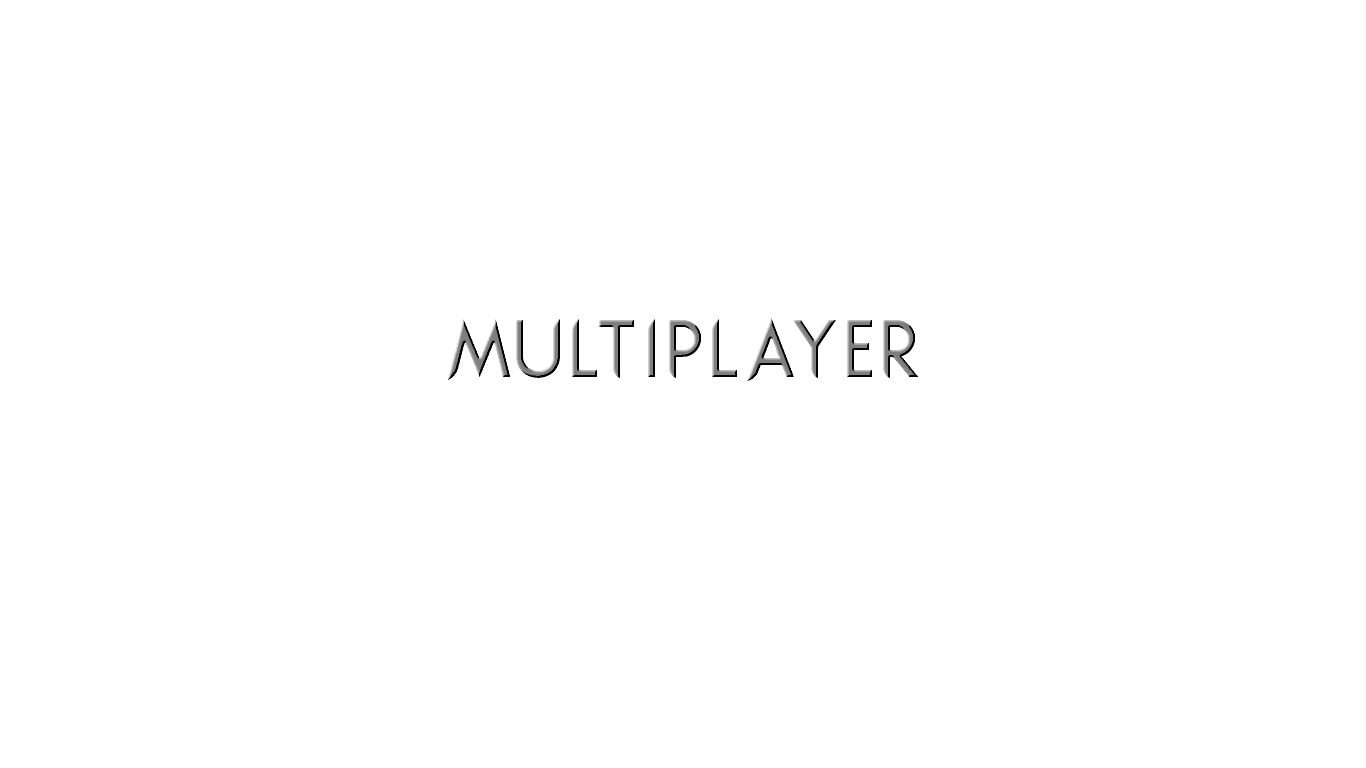
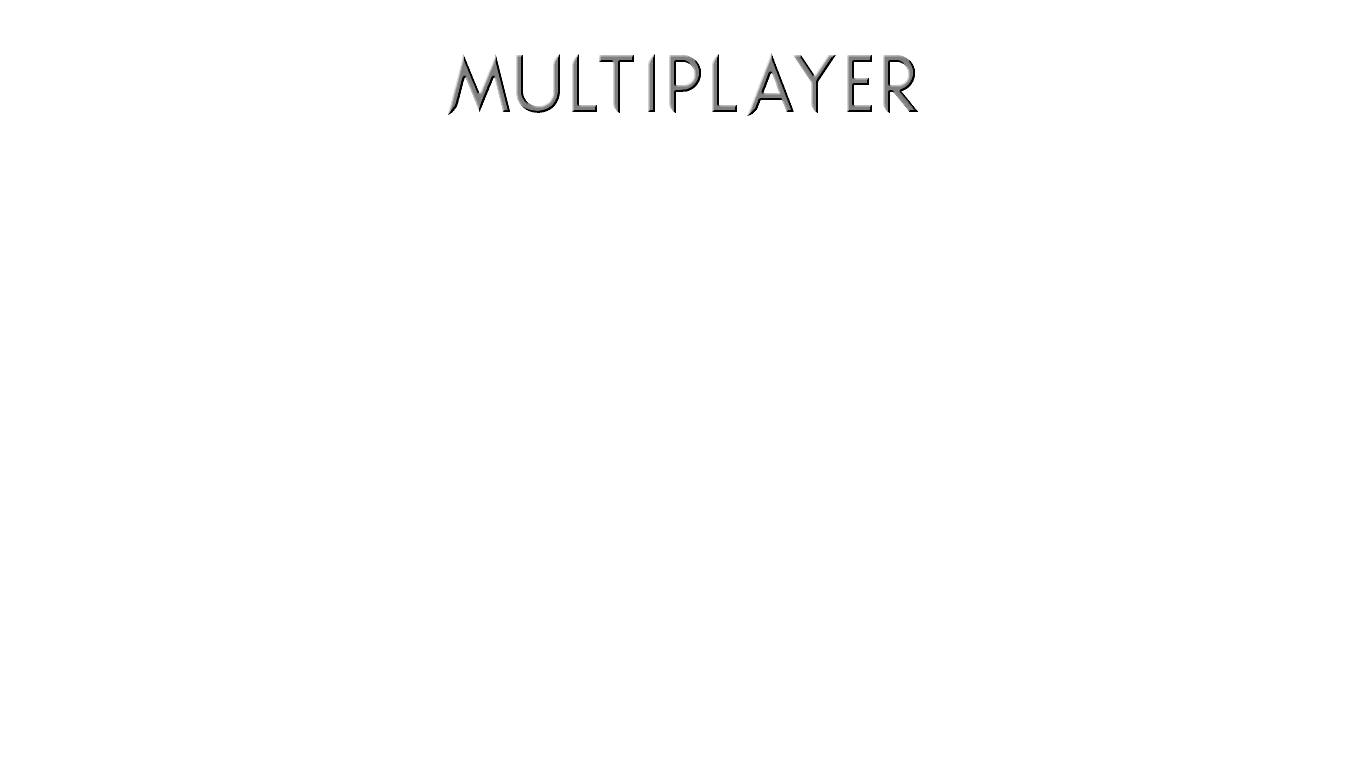
Improve layouting of multiplayer lobby screen
- Fix jitter on screen transition
- Improve layout of UI elements
- Add UI for entering server IP address & port
- Fix rust panic on shutdown

Changed region(s): [[0.3075, 0.4062, 0.6764, 0.5], [0.3075, 0.0625, 0.6764, 0.1562]]

diff --git a/MultiplayerMvpClient/Plugin/Menu/MultiplayerLobby.cs b/MultiplayerMvpClient/Plugin/Menu/MultiplayerLobby.cs
@@ -20,49 +20,102 @@ namespace MultiplayerMvpClient.Plugin.Menu
 
 		private readonly FSprite NativeDot;
 
+		private bool hasDoneInitUpdate;
+
+		public override bool FreezeMenuFunctions => hasDoneInitUpdate && base.FreezeMenuFunctions;
+
 		public MultiplayerLobby(ProcessManager manager, ProcessManager.ProcessID ID) : base(manager, ID)
 		{
-			pages.Add(new Page(this, null, "main", 0));
-			scene = new InteractiveMenuScene(this, pages[0], ModManager.MMF ? manager.rainWorld.options.subBackground : MenuScene.SceneID.Landscape_SU);
-			pages[0].subObjects.Add(scene);
+			Vector2 screenSize = manager.rainWorld.screenSize;
+			Vector2 screenCenter = manager.rainWorld.screenSize / 2;
+
+			Vector2 bottomLeft = Vector2.zero;
+			Vector2 topRight = screenSize;
+
+			Vector2 standardButtonSize = new(110f, 30f);
+
+			Page page = new(this, null, "main", 0);
+			pages.Add(page);
+
+			scene = new InteractiveMenuScene(this, page, ModManager.MMF ? manager.rainWorld.options.subBackground : MenuScene.SceneID.Landscape_SU);
+			page.subObjects.Add(scene);
 
 			FSprite backgroundTint = new("pixel")
 			{
 				color = Color.black,
-				anchorX = 0f,
-				anchorY = 0f,
-				scaleX = 1368f,
-				scaleY = 770f,
-				x = -1f,
-				y = -1f,
+				anchorX = 0,
+				anchorY = 0,
+				scaleX = screenSize.x + 2,
+				scaleY = screenSize.y + 2,
+				x = -1,
+				y = -1,
 				alpha = 0.85f
 			};
-			pages[0].Container.AddChild(backgroundTint);
+			page.Container.AddChild(backgroundTint);
 
-			scene.AddIllustration(new MenuIllustration(this, scene, "", "MultiplayerTitle", new Vector2(-2.99f, 265.01f), crispPixels: true, anchorCenter: false));
-			scene.flatIllustrations.Last().sprite.shader = manager.rainWorld.Shaders["MenuText"];
-			scene.flatIllustrations.Last().pos.x += HorizontalMoveToGetCentered(manager);
+			MenuIllustration title = new(this, scene, "", "MultiplayerTitle", Vector2.zero, crispPixels: true, anchorCenter: false);
+			title.sprite.shader = manager.rainWorld.Shaders["MenuText"];
+			scene.AddIllustration(title);
 
-			SimpleButton backButton = new(this, pages[0], Translate(BACK_BUTTON_SIGNAL), BACK_BUTTON_SIGNAL, new Vector2(200f, 50f), new Vector2(110f, 30f));
-			pages[0].subObjects.Add(backButton);
+			SimpleButton backButton = new(this, page, Translate(BACK_BUTTON_SIGNAL), BACK_BUTTON_SIGNAL, new Vector2(200f, 50f), standardButtonSize);
+			page.subObjects.Add(backButton);
 			backObject = backButton;
 
-			Vector2 screenCenter = manager.rainWorld.screenSize / 2;
-
-			MenuTabWrapper tabWrapper = new(this, pages[0]);
-			pages[0].subObjects.Add(tabWrapper);
-
-			OpTextBox textbox = new(new Configurable<string>(""), new(500, 500), 200)
+			// IP address and port number
 			{
-				allowSpace = true
-			};
-			_ = new UIelementWrapper(tabWrapper, textbox);
+				Vector2 serverSocketAddressAnchor = new(screenCenter.x, screenSize.y * 0.6f);
+				MenuTabWrapper tabWrapper = new(this, page);
+				page.subObjects.Add(tabWrapper);
 
-			SimpleButton connectButton = new(this, pages[0], Translate(CONNECT_BUTTON_SIGNAL), CONNECT_BUTTON_SIGNAL, new Vector2(500, 380), new Vector2(110, 30));
-			pages[0].subObjects.Add(connectButton);
+				OpLabel serverAddressLabel = new(
+					serverSocketAddressAnchor,
+					new(20, 24),
+					"Server Address:",
+					FLabelAlignment.Left);
 
-			SimpleButton disconnectButton = new(this, pages[0], Translate(DISCONNECT_BUTTON_SIGNAL), DISCONNECT_BUTTON_SIGNAL, new Vector2(500, 280), new Vector2(110, 30));
-			pages[0].subObjects.Add(disconnectButton);
+				float serverAddressLabelWidth = serverAddressLabel.label.textRect.width;
+
+				const float serverAddressWidth = 274;
+				OpTextBox serverAddress = new(
+					new Configurable<string>(""),
+					serverSocketAddressAnchor,
+					 serverAddressWidth);
+
+				OpLabel serverPortLabel = new(
+					serverSocketAddressAnchor,
+					 new(20, 24),
+					  "Port:",
+					  FLabelAlignment.Left);
+
+				float serverPortLabelWidth = serverPortLabel.label.textRect.width;
+
+				const int upDownOffset = -3;
+				const float serverPortWidth = 75;
+				OpUpdown serverPort = new(
+					new Configurable<int>(7110, new ConfigAcceptableRange<int>(0, 9999)),
+					serverSocketAddressAnchor,
+					serverPortWidth);
+				serverPort.PosY += upDownOffset;
+
+				const float padding = 10;
+				float totalWidth = serverAddressLabelWidth + padding + serverAddressWidth + padding + serverPortLabelWidth + padding + serverPortWidth;
+
+				serverAddressLabel.PosX = serverSocketAddressAnchor.x - (totalWidth / 2);
+				serverAddress.PosX = serverAddressLabel.PosX + serverAddressLabelWidth + padding;
+				serverPortLabel.PosX = serverAddress.PosX + serverAddressWidth + padding;
+				serverPort.PosX = serverPortLabel.PosX + serverPortLabelWidth + padding;
+
+				_ = new UIelementWrapper(tabWrapper, serverAddressLabel);
+				_ = new UIelementWrapper(tabWrapper, serverAddress);
+				_ = new UIelementWrapper(tabWrapper, serverPortLabel);
+				_ = new UIelementWrapper(tabWrapper, serverPort);
+			}
+
+			SimpleButton connectButton = new(this, page, Translate(CONNECT_BUTTON_SIGNAL), CONNECT_BUTTON_SIGNAL, new Vector2(500, 380), new Vector2(110, 30));
+			page.subObjects.Add(connectButton);
+
+			SimpleButton disconnectButton = new(this, page, Translate(DISCONNECT_BUTTON_SIGNAL), DISCONNECT_BUTTON_SIGNAL, new Vector2(500, 280), new Vector2(110, 30));
+			page.subObjects.Add(disconnectButton);
 
 			NativeDot = new("pixel")
 			{
@@ -72,12 +125,12 @@ namespace MultiplayerMvpClient.Plugin.Menu
 				x = screenCenter.x,
 				y = screenCenter.y
 			};
-			pages[0].Container.AddChild(NativeDot);
+			page.Container.AddChild(NativeDot);
 
 			manager.musicPlayer?.FadeOutAllSongs(25f);
 		}
 
-		public static void SetupHooks()
+		internal static void SetupHooks()
 		{
 			On.Menu.MainMenu.ctor += AddMainMenuButton;
 			On.ProcessManager.PostSwitchMainProcess += SwitchMainProcess;
@@ -109,6 +162,14 @@ namespace MultiplayerMvpClient.Plugin.Menu
 			orig(self, ID);
 		}
 
+		public override void Init()
+		{
+			base.Init();
+			init = true;
+			Update();
+			hasDoneInitUpdate = true;
+		}
+
 		public override void RawUpdate(float dt)
 		{
 			bool exitRequested = MultiplayerMvpNative.update_app();
@@ -120,7 +181,6 @@ namespace MultiplayerMvpClient.Plugin.Menu
 			else
 			{
 				MovementDelta delta = MultiplayerMvpNative.query_movement_delta();
-				MultiplayerMvpClientPlugin.Logger.LogInfo($"Queried delta of: {delta}");
 				NativeDot.x += delta.x;
 				NativeDot.y += delta.y;
 			}

diff --git a/rust/src/lib.rs b/rust/src/lib.rs
@@ -54,9 +54,8 @@ pub extern "C" fn init_app() {
 
 #[no_mangle]
 pub extern "C" fn update_app() -> bool {
-    println!("App try update");
     if let Some(ref mut container) = *APP.lock().unwrap() {
-        println!("App real update");
+        println!("App update");
         container.app.update();
 
         if let Some(app_exit_events) = container.app.world.get_resource_mut::<Events<AppExit>>() {
@@ -98,7 +97,16 @@ pub extern "C" fn query_movement_delta() -> MovementDelta {
 #[no_mangle]
 pub extern "C" fn destroy_static_taskpools() {
     println!("[Rust] Destroying static taskpools");
-    ComputeTaskPool::get().terminate_all_threads();
-    AsyncComputeTaskPool::get().terminate_all_threads();
-    IoTaskPool::get().terminate_all_threads();
+
+    if let Some(pool) = ComputeTaskPool::try_get() {
+        pool.terminate_all_threads()
+    }
+
+    if let Some(pool) = AsyncComputeTaskPool::try_get() {
+        pool.terminate_all_threads()
+    }
+
+    if let Some(pool) = IoTaskPool::try_get() {
+        pool.terminate_all_threads()
+    }
 }
